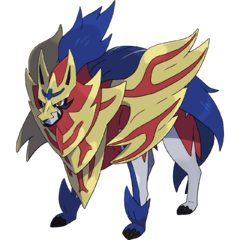
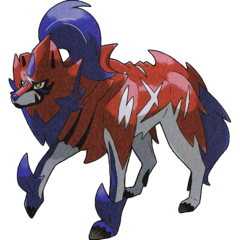
Image+Data fixes. Need to source better images for some.

diff --git a/tools/images/compareImageFolders.ts b/tools/images/compareImageFolders.ts
@@ -1,0 +1,23 @@
+import fs from 'fs';
+import path from 'path';
+import { promisify } from 'util';
+
+const readdirAsync = promisify(fs.readdir);
+
+function report(name: string, list: string[]) {
+  console.log(`\n${name}:`);
+  list.forEach((s) => console.log(s));
+}
+
+async function run() {
+  const arts = await readdirAsync(path.join(__dirname, './art'));
+  const sprites = await readdirAsync(path.join(__dirname, './sprites'));
+
+  const artWithNoSprite = arts.filter((name) => !sprites.includes(name));
+  const spritesWithNoArt = sprites.filter((name) => !arts.includes(name));
+
+  report('Art with no sprite file', artWithNoSprite);
+  report('Sprite with no art file', spritesWithNoArt);
+}
+
+run();

diff --git a/src/components/Footer/index.js b/src/components/Footer/index.js
@@ -7,15 +7,19 @@ import './Footer.scss';
 const currentYear = new Date().getFullYear();
 
 const Footer = React.memo(() => (
-  <section className="footer">
+  <footer className="footer">
+    <p>Pokémon is © of Nintendo, 1995-{currentYear}.</p>
     <p>
       Inspired by another{' '}
       <NewTabLink href="https://richi3f.github.io/pokemon-team-planner/national_dex.html">
         Pokémon Team Planner
       </NewTabLink>
     </p>
-    <p>Pokémon is © of Nintendo, 1995-{currentYear}.</p>
-  </section>
+    <p>
+      Source code can be found{' '}
+      <NewTabLink href="https://github.com/bakuzan/lusamine">here</NewTabLink>
+    </p>
+  </footer>
 ));
 
 export default Footer;

diff --git a/tools/images/index.ts b/tools/images/index.ts
@@ -214,8 +214,15 @@ async function run() {
           await pipeline(got.stream(url), fs.createWriteStream(imageFilename));
         }
       } else if (imageFolder === ImageScrapeTarget.Sprites) {
-        // TODO
-        // Download missing sprites...
+        for (const item of missing) {
+          const imageFilename = path.join(
+            __dirname,
+            `./${imageFolder}/${item.filename}`
+          );
+
+          const url = item.sprite;
+          await pipeline(got.stream(url), fs.createWriteStream(imageFilename));
+        }
       }
     }
   }

diff --git a/src/data/transformers.js b/src/data/transformers.js
@@ -42,7 +42,9 @@ export function transformVariantPokemonData(data) {
   return data.reduce((p, c) => {
     const id = IdGenerators.generateVariantPokemonId(p, c);
     const basePokemon = pokemon.find(
-      (x) => x.nationalPokedexNumber === c.nationalPokedexNumber
+      (x) =>
+        x.nationalPokedexNumber === c.nationalPokedexNumber &&
+        (!c.form || x.form === c.form)
     );
     const pokemonTypes = types.filter((x) => c.typeIds.includes(x.id));
     const pokemonEvolutions = evolutions.filter(

diff --git a/src/data/index.js b/src/data/index.js
@@ -38,7 +38,7 @@ export function constructPokedex() {
   const pokedex = combineAndSortMaps(
     ([id, mon], order) => {
       const sOffset = -40;
-      const aOffset = -97;
+      const aOffset = -96;
       const sy = -2 + sOffset * Math.floor(order / SPRITES_PER_ROW);
       const sx = -1 + sOffset * (order % SPRITES_PER_ROW);
       const ay = 0 + aOffset * Math.floor((order + 1) / ART_PER_ROW);

diff --git a/src/data/mappers.js b/src/data/mappers.js
@@ -63,7 +63,7 @@ export function mapVariantsPokemonData(
     id,
     nationalPokedexNumber: data.nationalPokedexNumber,
     name: `${regionName} ${basePokemon.name}`,
-    form: '',
+    form: data.form ?? '',
     types: mapTypesToPokemon(data.typeIds, types),
     evolutions: mapEvolutionsToPokemon(evolutions),
     generation: getGeneration(data.nationalPokedexNumber)

diff --git a/src/components/Footer/Footer.scss b/src/components/Footer/Footer.scss
@@ -1,3 +1,3 @@
 .footer {
-  padding: 10px 5px;
+  padding: 15px 5px 0;
 }

diff --git a/README.md b/README.md
@@ -1,7 +1,8 @@
 # Lusamine
 
-Currently under development.
 Critique and suggestions welcome.
+
+Note: Some images are a misized. These are fixed when and if better quality images can be found.
 
 # What?
 
@@ -16,4 +17,4 @@ I was looking for something to do and was inspired to develop this after seeing 
 
 This project was bootstrapped with [Create React App](https://github.com/facebookincubator/create-react-app).
 
-Pokémon is © of Nintendo, 1995-2019.
+Pokémon is © of Nintendo, 1995-2020.
